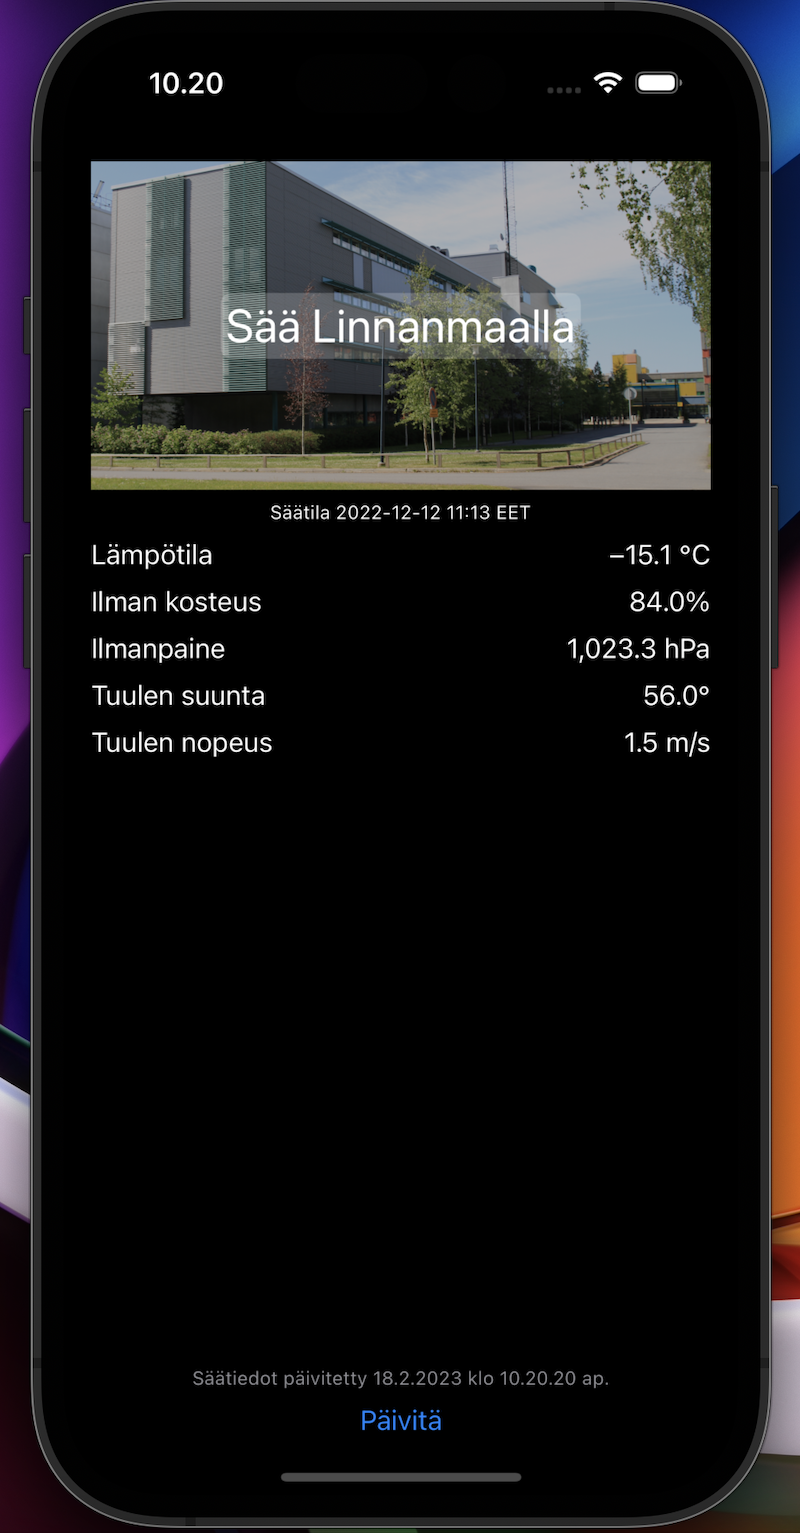
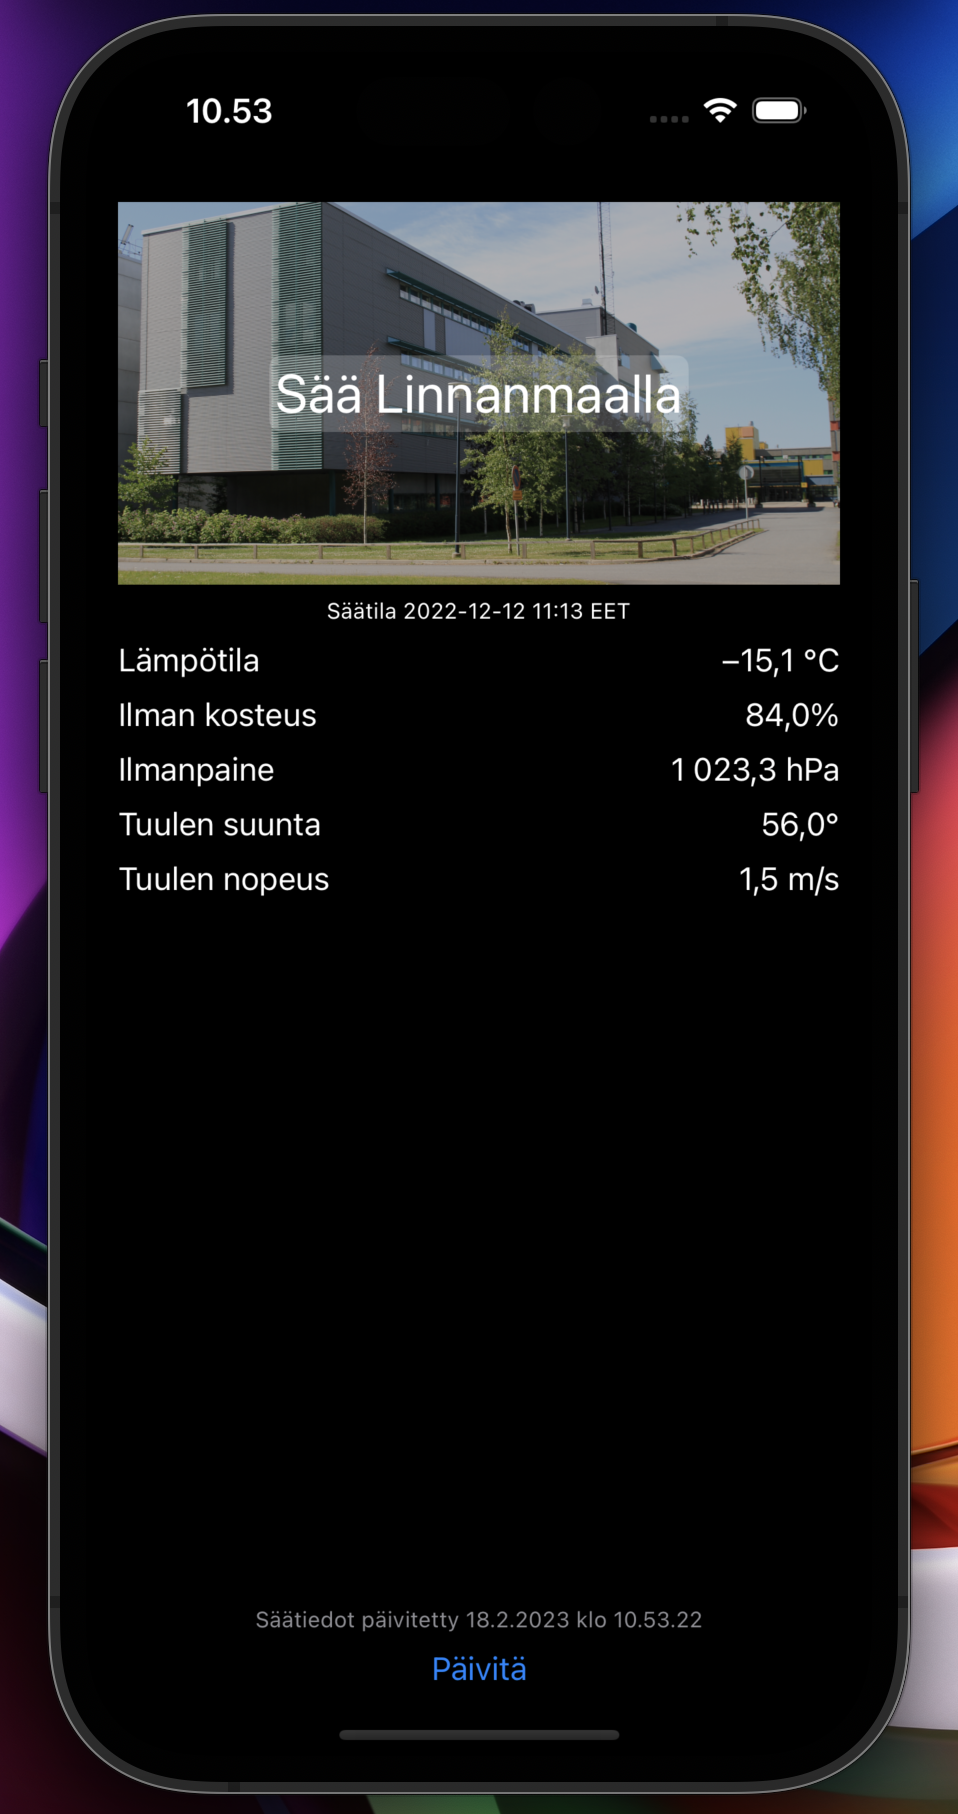
Fixed the displaying of units to locale specific and changed simulator settings to reflect the Finnish GUI.

Changed region(s): [[0.0, 0.0, 1.0, 1.0]]

diff --git a/LinnanmaaWeather/Model/Measurement.swift b/LinnanmaaWeather/Model/Measurement.swift
@@ -18,6 +18,6 @@ struct Measurement: Identifiable {
 
 extension Measurement {
 	var valueFormatted: String {
-		Decimal(value).formatted(.number.precision(.fractionLength(1))) + unit
+		String.localizedStringWithFormat("%.1lf%@", value, unit)
 	}
 }
